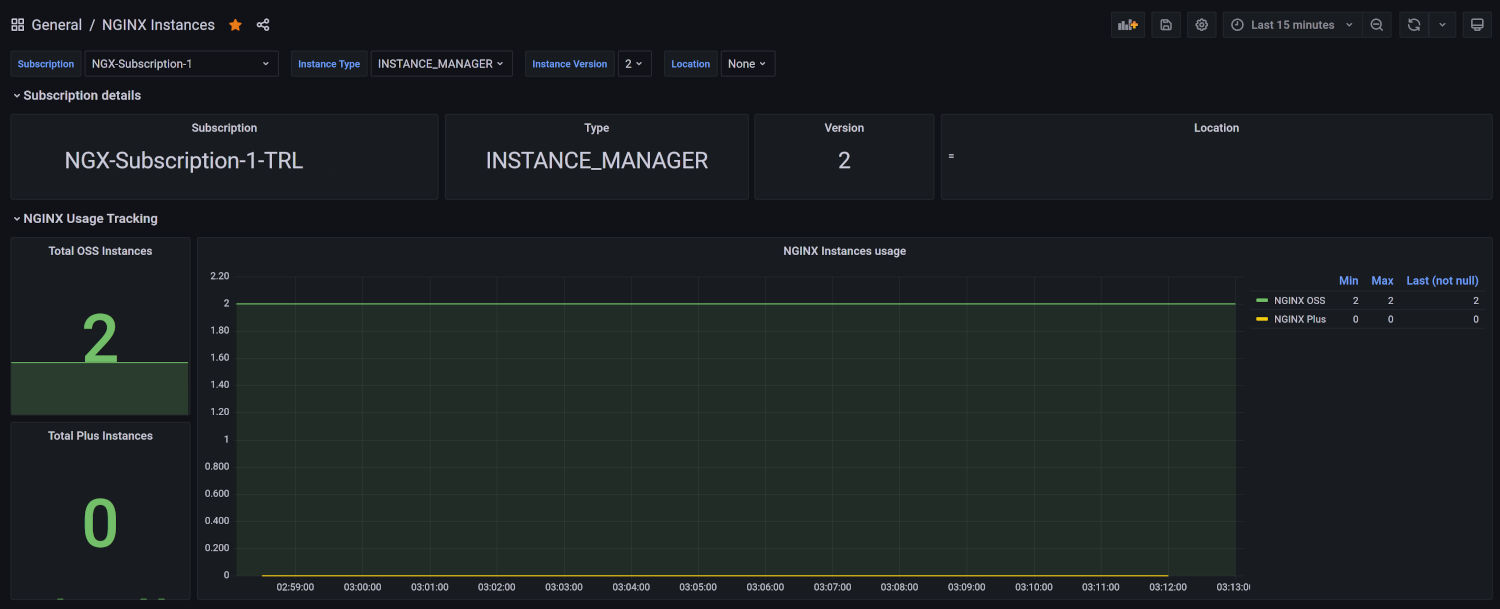
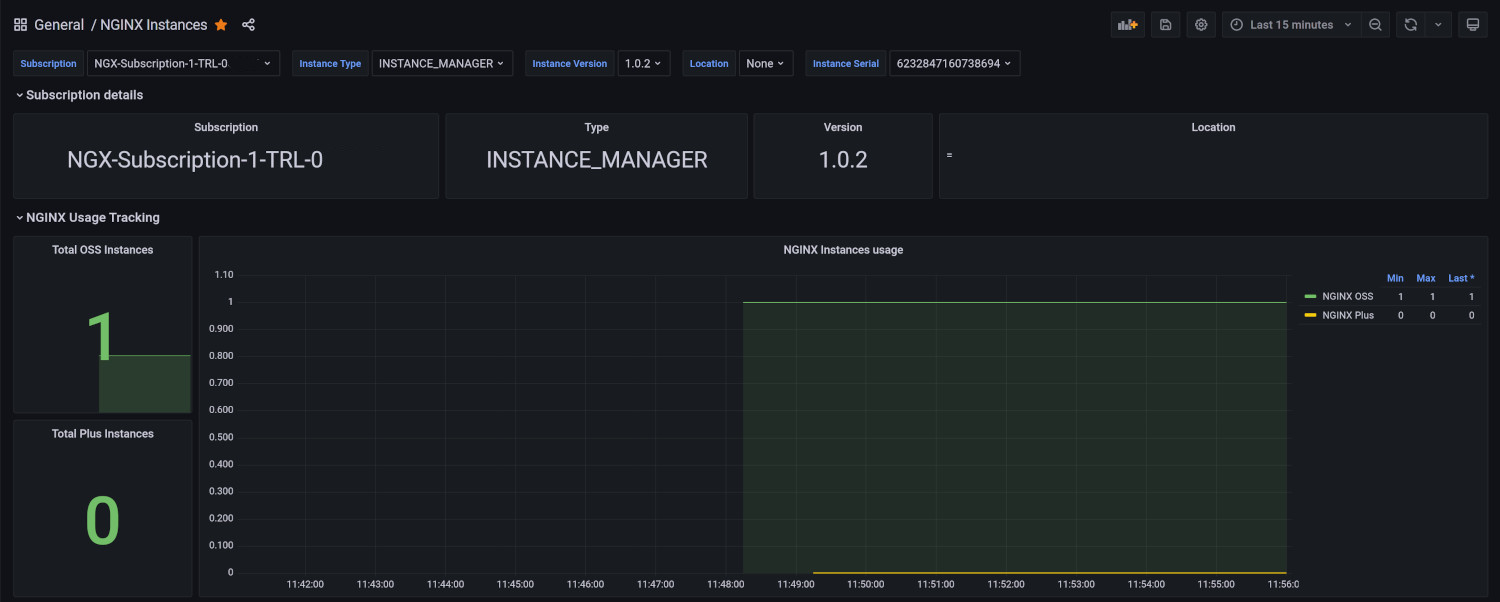
Added NIC serial number, bugfix, updated Gradana dashboard

diff --git a/nginx-instance-counter/app.py b/nginx-instance-counter/app.py
@@ -180,6 +180,21 @@ def nginxInstanceManagerLicense(fqdn):
 
   return res.status_code,data
 
+# Returns NIM Controller system information
+def nginxInstanceManagerSystem(fqdn):
+  s = Session()
+  req = Request('GET',fqdn+"/api/v0/about/system")
+
+  p = s.prepare_request(req)
+  res = s.send(p,verify=False)
+
+  if res.status_code == 200:
+    data = res.json()
+  else:
+    data = {}
+
+  return res.status_code,data
+
 
 # Returns NGINX OSS/Plus instances managed by NIM
 def nginxInstanceManagerInstances(fqdn):
@@ -316,9 +331,15 @@ def nimInstances(mode):
   if status != 200:
     return make_response(jsonify({'error': 'authentication failed'}), 401)
 
+  # Fetching NIM system information
+  status,system = nginxInstanceManagerSystem(nc_fqdn)
+  if status != 200:
+    return make_response(jsonify({'error': 'authentication failed'}), 401)
+
   subscriptionId=license['attributes']['subscription']
   instanceType=license['licenses'][0]['product_code']
-  instanceVersion=license['licenses'][0]['version']
+  instanceVersion=system['version']
+  instanceSerial=license['licenses'][0]['serial']
   plusManaged=license['plus_instances_managed']
   totalManaged=license['total_instances_managed']
 
@@ -331,7 +352,7 @@ def nimInstances(mode):
   output=''
 
   if mode == 'JSON':
-    output = '{ "subscription": {"id": "'+subscriptionId+'","type":"'+instanceType+'","version":"'+instanceVersion+'"},' + \
+    output = '{ "subscription": {"id": "'+subscriptionId+'","type":"'+instanceType+'","version":"'+instanceVersion+'","serial":"'+instanceSerial+'"},' + \
              '"instances": [ {"nginx_plus_online": '+plusManaged+', "nginx_oss_online": '+str(int(totalManaged)-int(plusManaged)) + \
              '}],"details": ['
 
@@ -358,13 +379,13 @@ def nimInstances(mode):
       output = '# HELP nginx_oss_online_instances Online NGINX OSS instances\n'
       output = output + '# TYPE nginx_oss_online_instances gauge\n'
 
-    output = output + 'nginx_oss_online_instances{subscription="'+subscriptionId+'",instanceType="'+instanceType+'",instanceVersion="'+instanceVersion+'"} '+str(int(totalManaged)-int(plusManaged))+'\n'
+    output = output + 'nginx_oss_online_instances{subscription="'+subscriptionId+'",instanceType="'+instanceType+'",instanceVersion="'+instanceVersion+'",instanceSerial="'+instanceSerial+'"} '+str(int(totalManaged)-int(plusManaged))+'\n'
 
     if mode == 'PROMETHEUS':
       output = output + '# HELP nginx_plus_online_instances Online NGINX Plus instances\n'
       output = output + '# TYPE nginx_plus_online_instances gauge\n'
 
-    output = output + 'nginx_plus_online_instances{subscription="'+subscriptionId+'",instanceType="'+instanceType+'",instanceVersion="'+instanceVersion+'"} '+plusManaged+'\n'
+    output = output + 'nginx_plus_online_instances{subscription="'+subscriptionId+'",instanceType="'+instanceType+'",instanceVersion="'+instanceVersion+'",instanceSerial="'+instanceSerial+'"} '+plusManaged+'\n'
 
   return output
 

diff --git a/README.md b/README.md
@@ -44,7 +44,7 @@ Push mode: Instance Counter pushes stats to a remote data collection and visuali
 The NGINX Instance Counter image is available on Docker Hub as:
 
 ```
-fiorucci/nginx-instance-counter:2.0
+fiorucci/nginx-instance-counter:2.1
 ```
 
 The 1.instancecounter.yaml file references that by default.
@@ -55,8 +55,8 @@ If you need to build and push NGINX your own image to a private registry:
 git clone fabriziofiorucci/NGINX-InstanceCounter
 cd NGINX-InstanceCounter/nginx-instance-counter
 
-docker build --no-cache -t PRIVATE_REGISTRY:PORT/nginx-instance-counter:2.0 .
-docker push PRIVATE_REGISTRY:PORT/nginx-instance-counter:2.0
+docker build --no-cache -t PRIVATE_REGISTRY:PORT/nginx-instance-counter:2.1 .
+docker push PRIVATE_REGISTRY:PORT/nginx-instance-counter:2.1
 ```
 
 ## As a native python application
@@ -144,7 +144,8 @@ $ curl -s http://counter.nginx.ff.lan/instances | jq
   "subscription": {
     "id": "NGX-Subscription-1-TRL-XXXXXX",
     "type": "INSTANCE_MANAGER",
-    "version": "2"
+    "version": "1.0.2",
+    "serial": "6232847160738694"
   },
   "instances": [
     {
@@ -243,10 +244,10 @@ Pulling from NGINX Instance Manager
 $ curl -s http://counter.nginx.ff.lan/metrics
 # HELP nginx_oss_online_instances Online NGINX OSS instances
 # TYPE nginx_oss_online_instances gauge
-nginx_oss_online_instances{subscription="NGX-Subscription-1-TRL-064788",instanceType="INSTANCE_MANAGER",instanceVersion="2"} 2
+nginx_oss_online_instances{subscription="NGX-Subscription-1-TRL-064788",instanceType="INSTANCE_MANAGER",instanceVersion="1.0.2",instanceSerial="6232847160738694"} 1
 # HELP nginx_plus_online_instances Online NGINX Plus instances
 # TYPE nginx_plus_online_instances gauge
-nginx_plus_online_instances{subscription="NGX-Subscription-1-TRL-064788",instanceType="INSTANCE_MANAGER",instanceVersion="2"} 0
+nginx_plus_online_instances{subscription="NGX-Subscription-1-TRL-064788",instanceType="INSTANCE_MANAGER",instanceVersion="1.0.2",instanceSerial="6232847160738694"} 0
 ```
 
 Pulling from NGINX Controller
